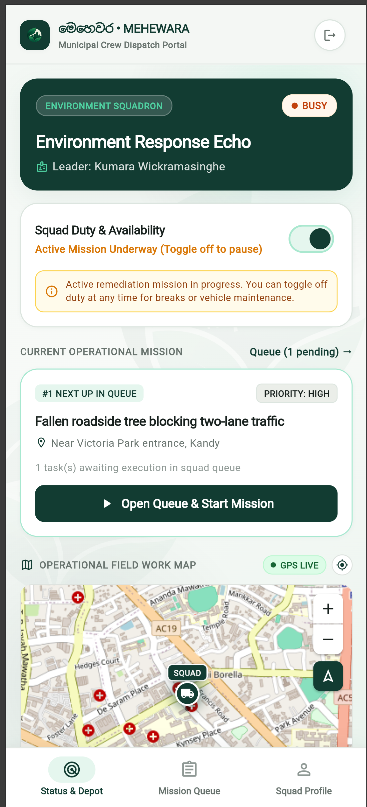
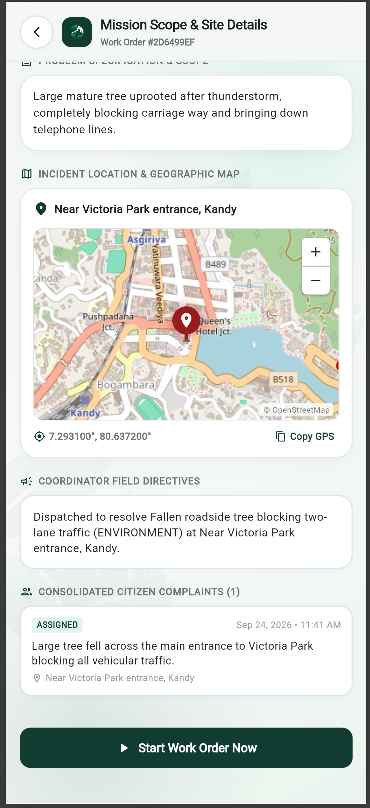
Remove deprecated example files and update README with architecture decision records and team member details; add new crew squad status screenshot.

diff --git a/README.md b/README.md
@@ -314,14 +314,13 @@ Mehewara/
 
 ## 📐 Architecture Decision Records (ADRs)
 
-| Record | Title | Summary & Technical Justification |
+| Record | Title | Decision & Technical Justification |
 | :--- | :--- | :--- |
-| **ADR-01** | **Clustering vs. Triage Boundary** | AI generates semantic clusters; ASP.NET Core retains authoritative problem creation and coordinator review. |
-| **ADR-02** | **Report-Problem Association Strategy** | Many-to-many relationship via `report_problems` junction allowing safe re-clustering and correction. |
-| **ADR-03** | **LangGraph Sequential Pipeline** | Structured linear DAG (`Agent 1 → Agent 2 → Agent 3 → Agent 4`) orchestrated through a single unified workflow entrypoint. |
-| **ADR-04** | **Deterministic Tool Execution** | Avoids LLM-driven ReAct AFC recursion bugs by executing allow-listed tools programmatically in Python and injecting results into the system prompt. |
-| **ADR-05** | **Agent 1 Passthrough Schema** | Downstream agents read normalized facts directly from workflow state without re-invoking previous agents. |
-| **ADR-06** | **Safe Failure & Approval Invariants** | Unrecognized or uncertain recommendations fail gracefully; human coordinator retains exclusive dispatch authority. |
+| **ADR-01** | **React State-Management Approach** | **React Context API + Custom Hooks:** Adopted native React state mechanisms for authentication, theme, and notifications combined with localized hook state for dispatch triage and modals. Avoids third-party bundle overhead (Redux/Zustand) while maintaining clean separation of concerns and fast HMR performance. |
+| **ADR-02** | **Flutter State-Management Approach** | **Provider Pattern (`provider: ^6.1.5`):** Selected Provider with `ChangeNotifier` for reactive UI binding across Citizen reporting and Crew Leader field screens. Provides clean lifecycle dependency injection, seamless `flutter_secure_storage` JWT session handling, and efficient real-time GPS telemetry updates with minimal boilerplate. |
+| **ADR-03** | **Agentic AI Framework & Orchestration Method** | **LangGraph Sequential Pipeline (`FastAPI`):** Selected LangGraph DAG orchestration for a strictly ordered 4-agent cognitive pipeline (`Agent 1 → Agent 2 → Agent 3 → Agent 4`). Eliminates unpredictable ReAct looping by executing allow-listed tools deterministically in Python before prompt injection and enforcing structured Pydantic schema validation. |
+| **ADR-04** | **Database Schema Strategy for Workflow State** | **Normalized Relational Audit Persistence (PostgreSQL):** Persists durable workflow execution state across `workflow_runs`, `workflow_events`, and `approval_history` tables. Retains structured agent input/output payloads, execution timestamps, and human approval audit trails while strictly omitting non-deterministic hidden chain-of-thought tokens. |
+| **ADR-05** | **Cloud Deployment Platform** | **Self-Hosted Linux VPS with Docker Compose & Nginx:** Deployed on a dedicated Cloud VPS host (`51.79.240.142`) using multi-container Docker Compose orchestration and an Nginx 1.27 reverse proxy gateway. Isolates internal microservices (FastAPI AI, PostgreSQL) from public exposure while providing unified CORS, SSL termination, and centralized health monitoring. |
 
 ---
 
@@ -329,10 +328,10 @@ Mehewara/
 
 | Member | Primary Ownership | Component Responsibilities | GitHub Profile |
 | :---: | :--- | :--- | :---: |
-| **Member 1** | **Report & Intake Management** | Citizen mobile reporting with GPS/photos, Report REST APIs, PostgreSQL `reports` schema, Agent 1 (Report Structuring). | [@HarshaJayaweera21](https://github.com/HarshaJayaweera21) |
-| **Member 2** | **Problem Identification & Consolidation** | Coordinator problem explorer, consolidation APIs, `problems` & `report_problems` schema, Agent 2 (Problem Consolidation). | [@nuwandh](https://github.com/nuwandh) |
+| **Member 1** | **Report & Intake Management** | Citizen mobile reporting with GPS/photos, Report REST APIs, PostgreSQL `reports` schema, Agent 1 (Report Structuring). | [@bimsara2003](https://github.com/bimsara2003) |
+| **Member 2** | **Problem Identification & Consolidation** | Coordinator problem explorer, consolidation APIs, `problems` & `report_problems` schema, Agent 2 (Problem Consolidation). | [@HarshaJayaweera21](https://github.com/HarshaJayaweera21) |
 | **Member 3** | **Prioritization & Crew Dispatch** | Coordinator dispatch triage dashboard & action modals, Crew APIs, `crews` schema, Agent 3 (Priority & Crew Matching). | [@ssshanaka](https://github.com/ssshanaka) |
-| **Member 4** | **Work Orders & Crew Execution** | Crew mobile field execution terminal, WorkOrder APIs, `work_orders` & `approval_history`, Agent 4 (Validation & Safety). | [@bimsara2003](https://github.com/bimsara2003) |
+| **Member 4** | **Work Orders & Crew Execution** | Crew mobile field execution terminal, WorkOrder APIs, `work_orders` & `approval_history`, Agent 4 (Validation & Safety). | [@nuwandh](https://github.com/nuwandh) |
 
 ---
 
